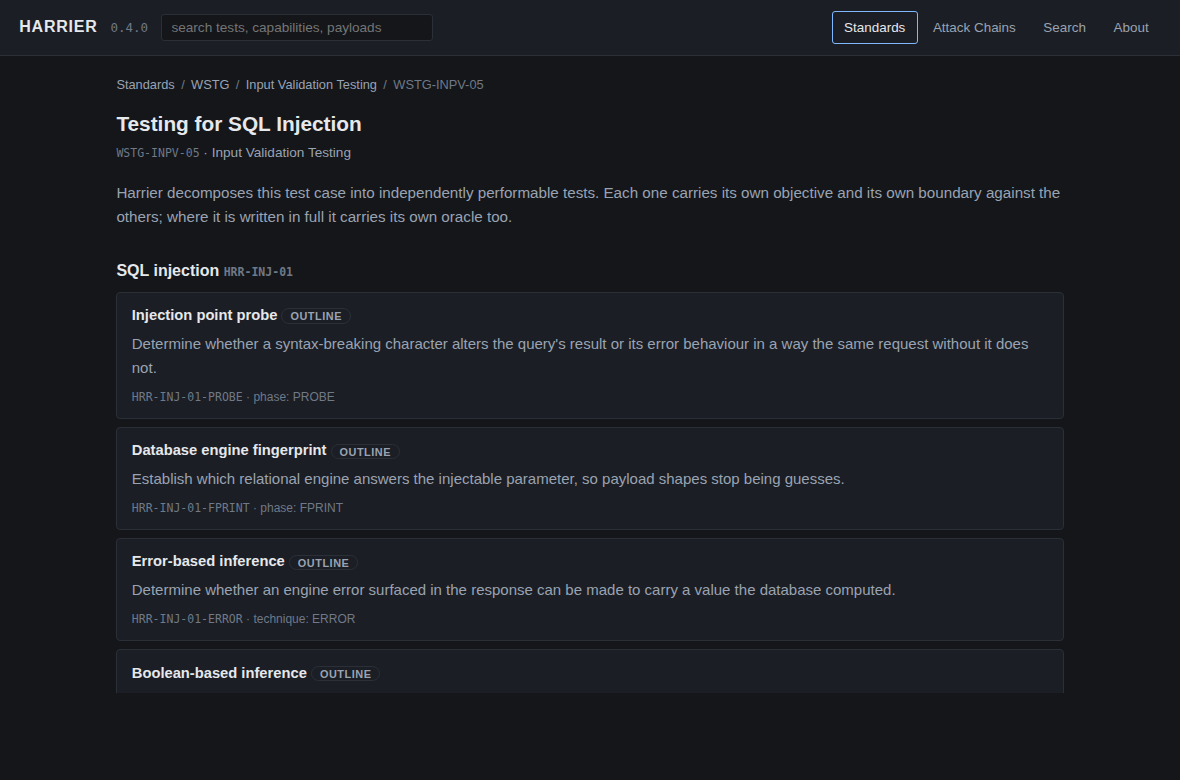
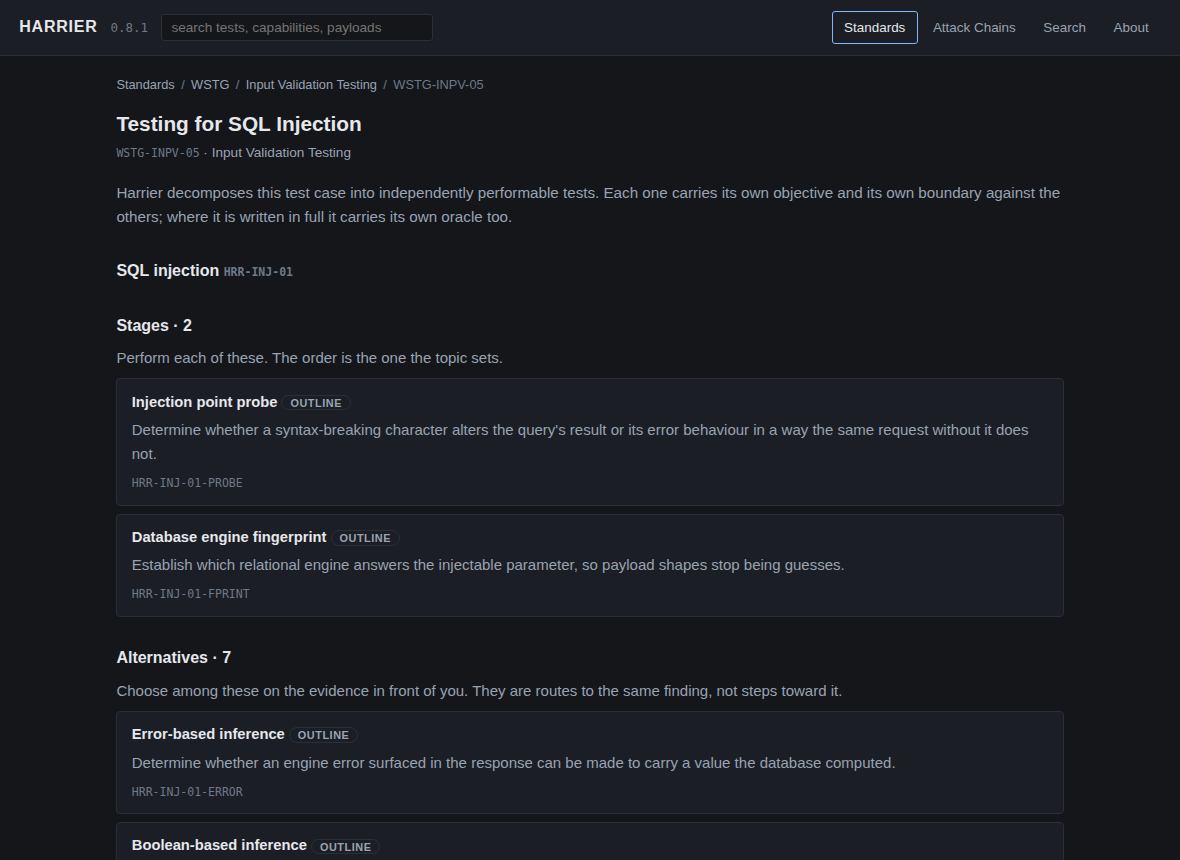
docs: retake the screenshots against the interface they now describe
All three were captured at 0.4.0, before the catalogue gained tiers and roles.
One of them had stopped being true.

The test case page listed its units flat when that image was taken. It now names
the two kinds and says what each instruction means -- perform every one of
these, choose one of those -- which is the argument this README makes in prose
two paragraphs earlier, and the picture had been contradicting it. The crop is
taller so the second heading is inside it rather than just below the fold.

The other two changed only in ways the pictures are not there to show: the
version in the masthead, a matrix cell or two, and the impact row now fitting.
Retaken anyway rather than left at 0.4.0 beside a 0.8.1 badge.

No version bump: documentation only, and nothing about the published artefact's
behaviour changes.

diff --git a/README.md b/README.md
@@ -96,9 +96,10 @@ being reached through one capability is not the same as being possible.
 ## What it looks like
 
 A test case, decomposed into the tests inside it, in the order the topic
-declares:
+declares — and separated into the ones you perform in sequence and the ones you
+choose between, because those are opposite instructions:
 
-![A WSTG test case decomposed into its Test Units](docs/assets/decomposition.png)
+![A WSTG test case decomposed into its Test Units, split into stages and alternatives](docs/assets/decomposition.png)
 
 A Test Unit. The chain strip under the objective answers *where can this lead*
 before the procedure begins, rather than several screens after it:
